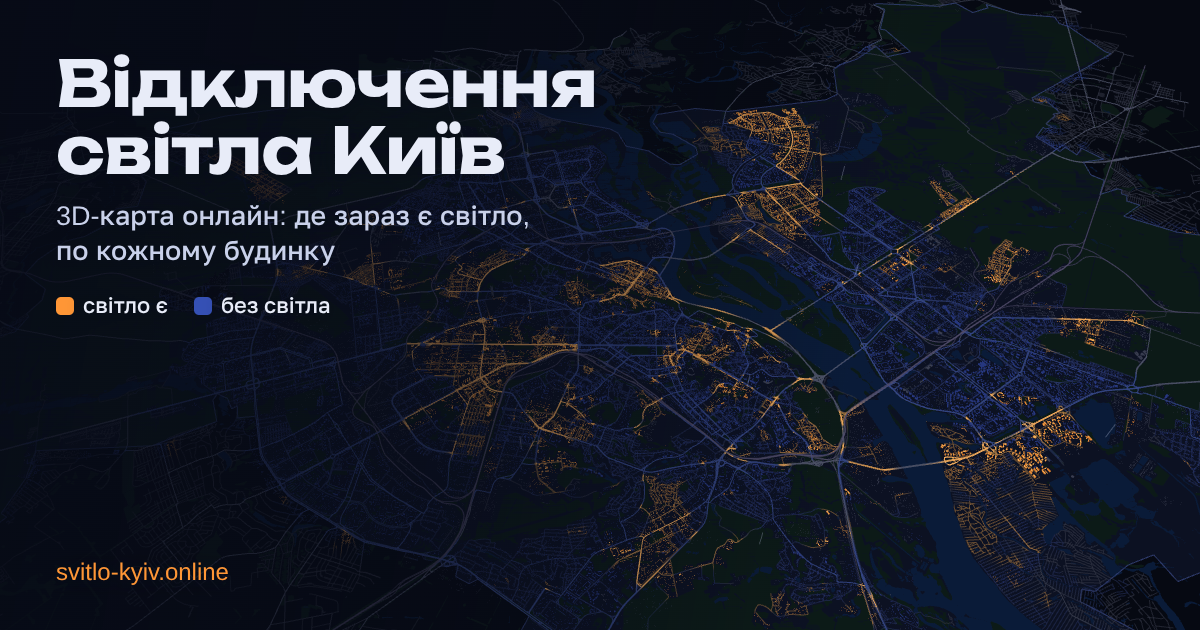
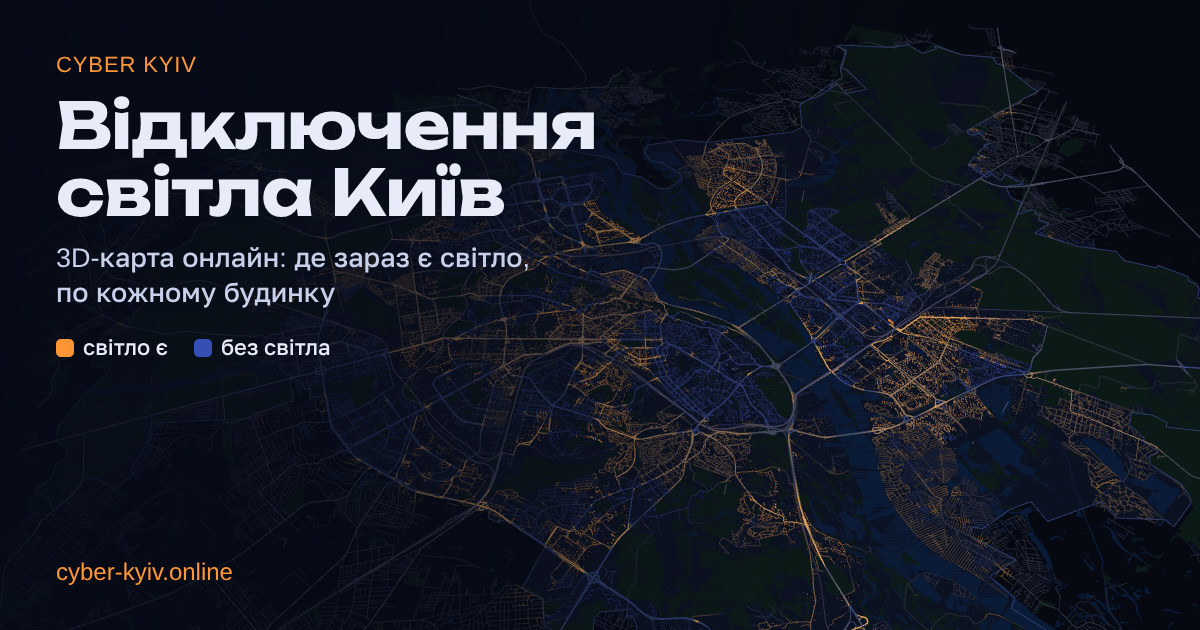
Move the site to cyber-kyiv.online
Canonical URL, social preview (redrawn with the new name and address), structured
data, sitemap, robots.txt, CNAME and the User-Agent of the data fetchers now point
to the new domain. svitlo-kyiv.online will redirect here.

Claude-Session: https://claude.ai/code/session_01J9YHzsXtvMrXyBwPoNMcfT

diff --git a/index.html b/index.html
@@ -5,22 +5,22 @@
 <meta name="viewport" content="width=device-width,initial-scale=1,viewport-fit=cover">
 <meta name="description" content="Де зараз є світло в Києві: 3D-карта відключень по кожному будинку за графіками YASNO (ДТЕК). Оновлення кожні 15 хвилин, прогноз на 48 годин, екстрені відключення.">
 <meta name="robots" content="index,follow,max-image-preview:large">
-<link rel="canonical" href="https://svitlo-kyiv.online/">
+<link rel="canonical" href="https://cyber-kyiv.online/">
 <meta property="og:type" content="website">
 <meta property="og:site_name" content="Cyber Kyiv">
 <meta property="og:locale" content="uk_UA">
-<meta property="og:url" content="https://svitlo-kyiv.online/">
+<meta property="og:url" content="https://cyber-kyiv.online/">
 <meta property="og:title" content="Відключення світла Київ — карта онлайн">
 <meta property="og:description" content="3D-карта Києва: у яких будинках зараз є світло, а в яких ні, за графіками відключень YASNO (ДТЕК).">
-<meta property="og:image" content="https://svitlo-kyiv.online/og-image.png">
+<meta property="og:image" content="https://cyber-kyiv.online/og-image.png">
 <meta property="og:image:width" content="1200">
 <meta property="og:image:height" content="630">
 <meta property="og:image:alt" content="Нічна 3D-карта Києва: будинки зі світлом помаранчеві, без світла сині">
 <meta name="twitter:card" content="summary_large_image">
 <meta name="twitter:title" content="Відключення світла Київ — карта онлайн">
 <meta name="twitter:description" content="3D-карта Києва: у яких будинках зараз є світло, а в яких ні, за графіками відключень YASNO (ДТЕК).">
-<meta name="twitter:image" content="https://svitlo-kyiv.online/og-image.png">
-<script type="application/ld+json">{"@context":"https://schema.org","@graph":[{"@type":"WebSite","@id":"https://svitlo-kyiv.online/#website","url":"https://svitlo-kyiv.online/","name":"Cyber Kyiv","alternateName":["Кібер Київ","Карта відключень світла Київ"],"inLanguage":"uk"},{"@type":"WebApplication","@id":"https://svitlo-kyiv.online/#app","name":"Cyber Kyiv — карта відключень світла","url":"https://svitlo-kyiv.online/","description":"Де зараз є світло в Києві: 3D-карта відключень по кожному будинку за графіками YASNO (ДТЕК). Оновлення кожні 15 хвилин, прогноз на 48 годин, екстрені відключення.","inLanguage":"uk","applicationCategory":"UtilitiesApplication","operatingSystem":"Any","browserRequirements":"WebGL","isAccessibleForFree":true,"offers":{"@type":"Offer","price":"0","priceCurrency":"UAH"},"areaServed":{"@type":"City","name":"Київ","sameAs":"https://uk.wikipedia.org/wiki/Київ"},"image":"https://svitlo-kyiv.online/og-image.png","dateModified":"__MODIFIED__","isPartOf":{"@id":"https://svitlo-kyiv.online/#website"}},{"@type":"FAQPage","@id":"https://svitlo-kyiv.online/#faq","inLanguage":"uk","mainEntity":[{"@type":"Question","name":"Як дізнатися свою групу відключень світла в Києві?","acceptedAnswer":{"@type":"Answer","text":"Натисніть на свій будинок на карті: підказка покаже групу YASNO, стан зараз і час наступного вмикання чи вимкнення. Точну групу своєї адреси можна перевірити на сайті ДТЕК Київські електромережі, на yasno.ua або в застосунку «Київ Цифровий»."}},{"@type":"Question","name":"Чому в сусідніх будинках різний графік відключень?","acceptedAnswer":{"@type":"Answer","text":"З 12–13 жовтня 2026 року в Києві немає черг: ДТЕК розраховує графік окремо для кожного будинку, а YASNO відносить кожну адресу до однієї з 60 груп. Тому навіть сусідні будинки можуть мати різний графік."}},{"@type":"Question","name":"Коли дадуть світло?","acceptedAnswer":{"@type":"Answer","text":"Натисніть на будинок: підказка покаже, о котрій за графіком увімкнуть або вимкнуть світло. Повзунок унизу карти показує, як змінюватиметься ситуація в місті протягом 48 годин."}},{"@type":"Question","name":"Що таке екстрені відключення?","acceptedAnswer":{"@type":"Answer","text":"Коли енергосистема перевантажена, ДТЕК вводить екстрені відключення, і планові графіки тимчасово не діють. Тоді карта показує останній відомий графік приглушеним кольором і позначку «екстрені»: світло можуть вимкнути й поза графіком."}},{"@type":"Question","name":"Як часто оновлюється карта?","acceptedAnswer":{"@type":"Answer","text":"Графік YASNO перевіряється кожні 15 хвилин, а відкрита сторінка підтягує нові дані кожні 5 хвилин, без перезавантаження."}},{"@type":"Question","name":"Наскільки точна карта?","acceptedAnswer":{"@type":"Answer","text":"Карта показує планові графіки, а не фактичний стан мережі. Частина будинків пофарбована за власною адресою, решта — за найближчим перевіреним будинком у радіусі 150 м. Під час аварій світла може не бути й поза графіком."}}]}]}</script>
+<meta name="twitter:image" content="https://cyber-kyiv.online/og-image.png">
+<script type="application/ld+json">{"@context":"https://schema.org","@graph":[{"@type":"WebSite","@id":"https://cyber-kyiv.online/#website","url":"https://cyber-kyiv.online/","name":"Cyber Kyiv","alternateName":["Кібер Київ","Карта відключень світла Київ"],"inLanguage":"uk"},{"@type":"WebApplication","@id":"https://cyber-kyiv.online/#app","name":"Cyber Kyiv — карта відключень світла","url":"https://cyber-kyiv.online/","description":"Де зараз є світло в Києві: 3D-карта відключень по кожному будинку за графіками YASNO (ДТЕК). Оновлення кожні 15 хвилин, прогноз на 48 годин, екстрені відключення.","inLanguage":"uk","applicationCategory":"UtilitiesApplication","operatingSystem":"Any","browserRequirements":"WebGL","isAccessibleForFree":true,"offers":{"@type":"Offer","price":"0","priceCurrency":"UAH"},"areaServed":{"@type":"City","name":"Київ","sameAs":"https://uk.wikipedia.org/wiki/Київ"},"image":"https://cyber-kyiv.online/og-image.png","dateModified":"__MODIFIED__","isPartOf":{"@id":"https://cyber-kyiv.online/#website"}},{"@type":"FAQPage","@id":"https://cyber-kyiv.online/#faq","inLanguage":"uk","mainEntity":[{"@type":"Question","name":"Як дізнатися свою групу відключень світла в Києві?","acceptedAnswer":{"@type":"Answer","text":"Натисніть на свій будинок на карті: підказка покаже групу YASNO, стан зараз і час наступного вмикання чи вимкнення. Точну групу своєї адреси можна перевірити на сайті ДТЕК Київські електромережі, на yasno.ua або в застосунку «Київ Цифровий»."}},{"@type":"Question","name":"Чому в сусідніх будинках різний графік відключень?","acceptedAnswer":{"@type":"Answer","text":"З 12–13 жовтня 2026 року в Києві немає черг: ДТЕК розраховує графік окремо для кожного будинку, а YASNO відносить кожну адресу до однієї з 60 груп. Тому навіть сусідні будинки можуть мати різний графік."}},{"@type":"Question","name":"Коли дадуть світло?","acceptedAnswer":{"@type":"Answer","text":"Натисніть на будинок: підказка покаже, о котрій за графіком увімкнуть або вимкнуть світло. Повзунок унизу карти показує, як змінюватиметься ситуація в місті протягом 48 годин."}},{"@type":"Question","name":"Що таке екстрені відключення?","acceptedAnswer":{"@type":"Answer","text":"Коли енергосистема перевантажена, ДТЕК вводить екстрені відключення, і планові графіки тимчасово не діють. Тоді карта показує останній відомий графік приглушеним кольором і позначку «екстрені»: світло можуть вимкнути й поза графіком."}},{"@type":"Question","name":"Як часто оновлюється карта?","acceptedAnswer":{"@type":"Answer","text":"Графік YASNO перевіряється кожні 15 хвилин, а відкрита сторінка підтягує нові дані кожні 5 хвилин, без перезавантаження."}},{"@type":"Question","name":"Наскільки точна карта?","acceptedAnswer":{"@type":"Answer","text":"Карта показує планові графіки, а не фактичний стан мережі. Частина будинків пофарбована за власною адресою, решта — за найближчим перевіреним будинком у радіусі 150 м. Під час аварій світла може не бути й поза графіком."}}]}]}</script>
 <meta name="theme-color" content="#070b17">
 <style>*,*::before,*::after{box-sizing:border-box}html{color-scheme:dark}body{margin:0;font:14px system-ui,-apple-system,"Segoe UI",sans-serif}img{max-width:100%}[hidden]{display:none!important}</style>
 <title>Відключення світла Київ — графік і карта онлайн | Cyber Kyiv</title>

diff --git a/tools/patch_seo.py b/tools/patch_seo.py
@@ -13,7 +13,7 @@ def rep(old, new):
     assert old in s, old[:90]
     s = s.replace(old, new, 1)
 
-URL = "https://svitlo-kyiv.online/"
+URL = "https://cyber-kyiv.online/"
 TITLE = "Відключення світла Київ — графік і карта онлайн | Cyber Kyiv"
 DESC = ("Де зараз є світло в Києві: 3D-карта відключень по кожному будинку за графіками YASNO (ДТЕК). "
         "Оновлення кожні 15 хвилин, прогноз на 48 годин, екстрені відключення.")

diff --git a/scripts/build_site.py b/scripts/build_site.py
@@ -80,6 +80,6 @@ idx.write_text(page)
 (site / "sitemap.xml").write_text(
     '<?xml version="1.0" encoding="UTF-8"?>\n'
     '<urlset xmlns="http://www.sitemaps.org/schemas/sitemap/0.9">\n'
-    f"  <url><loc>https://svitlo-kyiv.online/</loc><lastmod>{fetched}</lastmod><changefreq>hourly</changefreq><priority>1.0</priority></url>\n"
+    f"  <url><loc>https://cyber-kyiv.online/</loc><lastmod>{fetched}</lastmod><changefreq>hourly</changefreq><priority>1.0</priority></url>\n"
     "</urlset>\n")
 print(f"site built: {len(groups)} groups, emergency={emergency}, lastmod={fetched}")

diff --git a/scripts/crawl_groups.py b/scripts/crawl_groups.py
@@ -13,7 +13,7 @@ import json, re, sys, time, urllib.parse, urllib.request, collections
 BASE = "https://app.yasno.ua/api/blackout-service/public/shutdowns/addresses/v2/"
 COMMON = {"regionId": "25", "dsoId": "902"}
 DELAY = 0.6  # seconds between requests
-UA = "Mozilla/5.0 (svitlo-kyiv map; +https://svitlo-kyiv.online)"
+UA = "Mozilla/5.0 (Cyber Kyiv map; +https://cyber-kyiv.online)"
 
 class FetchError(Exception):
     pass

diff --git a/scripts/update_schedule.py b/scripts/update_schedule.py
@@ -10,7 +10,7 @@ OUT = pathlib.Path(__file__).resolve().parent.parent / "schedule.json"
 
 def fetch():
     req = urllib.request.Request(URL, headers={
-        "User-Agent": "Mozilla/5.0 (svitlo-kyiv map; +https://github.com/rodionshkurko1994-dev/svitlo-kyiv)",
+        "User-Agent": "Mozilla/5.0 (Cyber Kyiv map; +https://cyber-kyiv.online)",
         "Accept": "application/json",
     })
     last = None

diff --git a/README.md b/README.md
@@ -1,6 +1,6 @@
 # Cyber Kyiv
 
-**Сайт:** https://svitlo-kyiv.online
+**Сайт:** https://cyber-kyiv.online
 
 3D-карта Києва: які квартали зараз зі світлом, а які без, за плановими графіками відключень YASNO (ДТЕК). Прогноз на 48 годин.
 
